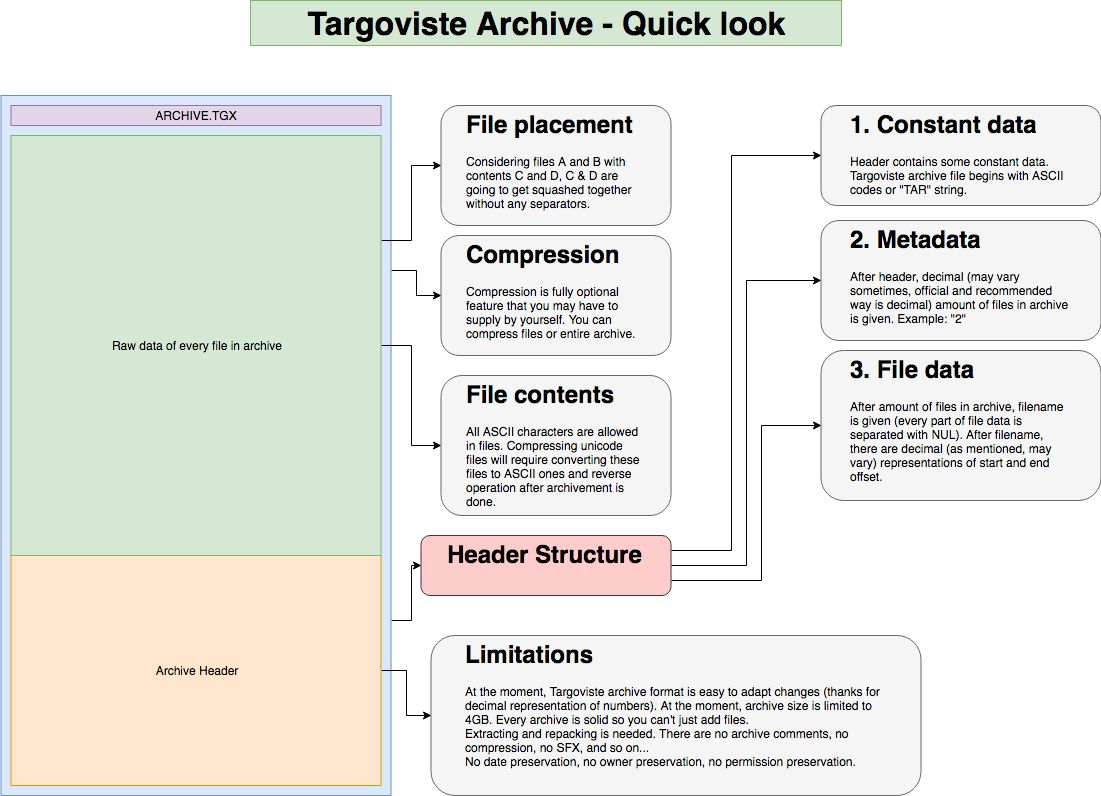
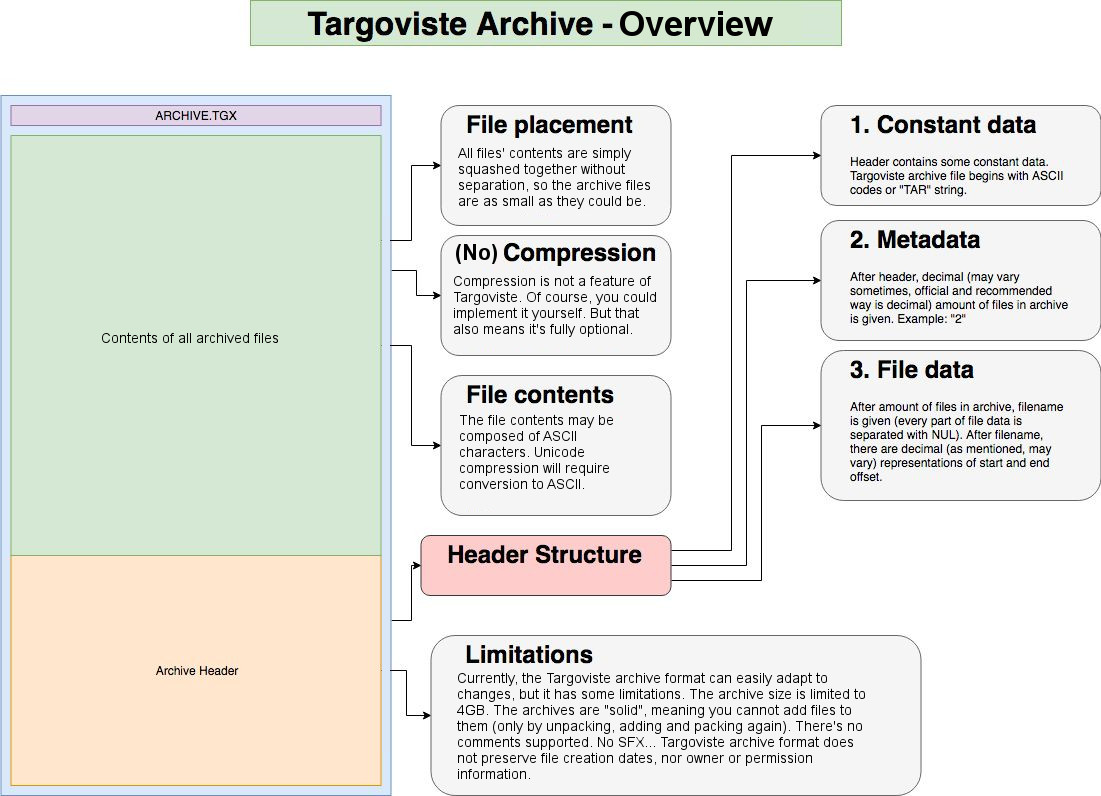
Cleaned up the docs (#4)
* Cleaned up the docs

* Improved some descriptions on the chart

* "Relative" image path in the README

diff --git a/targoviste.c b/targoviste.c
@@ -23,7 +23,7 @@ OUT OF OR IN CONNECTION WITH THE SOFTWARE OR THE USE OR OTHER DEALINGS IN THE
 SOFTWARE.
 */
 
-/* Utility for converting number macros to string ones. */
+/* Utility for converting number macros to string macros. */
 #define xstr(s) str(s)
 #define str(s) #s
 
@@ -32,20 +32,21 @@ SOFTWARE.
 #include <stdio.h>
 #include <string.h>
 
-/* *** Internal functions block starts *** */
+/* *** Internal functions *** */
 
 /*
  * Function:  readString
  * --------------------
- * This function is reading string from specified stream with specified size and
- * delimiter. This function is returning pointer to string allocated on heap. Please
- * remember to free pointer. Warning: does not consume the delimiter.
+ * Reads a string from the given file stream with the specified size
+ * and delimiter. Returns a pointer to a string allocated on the heap.
+ * Remember to free the pointer afterwards. The returned string contains
+ * the delimiter.
  *
- *  f: File handle
- *  maxSize: Max string size (to get rid of BO attacks)
- *  delim: Delimiter
+ *  f: the file handle
+ *  maxSize: max string size (to prevent BO attacks)
+ *  delim: the string delimiter
  *
- *  returns: string that was read from stream.
+ *  returns: the resulting string read from the stream
  */
 static char * readString(FILE * f, int maxSize, char delim) {
     char * s, c;
@@ -69,16 +70,14 @@ static char * readString(FILE * f, int maxSize, char delim) {
 }
 
 /*
- * Function:  reado
+ * Function:  readi
  * --------------------
- * This function is reading number from specified stream. Does
- * consume null terminator. This is wrapper over readString.
- * Function is returning string pointer allocated on heap like
- * readString, so please free it after it's no longer used.
+ * Reads an integer from the given file stream.
+ * This function uses readString().
  *
- *  f: File handle
+ *  f: the file handle
  *
- *  returns: number that was read from stream.
+ *  returns: the integer read from the stream
  */
 static int readi(FILE * f) {
     char * s;
@@ -91,22 +90,12 @@ static int readi(FILE * f) {
 }
 
 
-/* *** Internal functions block ends *** */
+/* *** End: Internal functions *** */
 
-/* *** External functions block starts *** */
 
-/*
- * Function:  writeArchive
- * --------------------
- * This function is writing targoviste_archive structure to
- * specified filename. 
- * 
- *  archive: instance of targoviste_archive structure that
- *           needs to be written.
- *  file: file to write to.
- *
- *  returns: 1 on failure, 0 on success.
- */
+
+/* *** External functions *** */
+
 int writeArchive(targoviste_archive archive, char * file) {
     FILE * f;
     int i = 0, totalSize = 0;
@@ -126,23 +115,6 @@ int writeArchive(targoviste_archive archive, char * file) {
     return 0;
 }
 
-/*
- * Function:  readArchive
- * --------------------
- * This function is reading whole targoviste_archive structure from
- * specified filename. 
- *
- *  file: file to write to.
- *  error: pointer to integer variable, which will be changed in
- *         case of error to either:
- *            0 (everything fine)
- *            1 (file could not be opened)
- *            2 (out of memory)
- *            3 (invalid header)
- *            4 (out of memory)
- *
- *  returns: archive read.
- */
 targoviste_archive readArchive(char * file, int *error) {
     FILE * f;
     targoviste_archive archive;
@@ -202,23 +174,6 @@ targoviste_archive readArchive(char * file, int *error) {
     return archive;
 }
 
-/*
- * Function:  freeArchive
- * --------------------
- * This function is reading whole targoviste_archive structure from
- * specified filename. 
- *
- *  file: file to write to.
- *  error: pointer to integer variable, which will be changed in
- *         case of error to either:
- *            0 (everything fine)
- *            1 (file could not be opened)
- *            2 (out of memory)
- *            3 (invalid header)
- *            4 (out of memory)
- *
- *  returns: archive read.
- */
 void freeArchive(targoviste_archive archive) {
     int i;
     for(i = 0; i < archive.amount; i++)
@@ -226,22 +181,7 @@ void freeArchive(targoviste_archive archive) {
     free(archive.files);
 }
 
-/*
- * Function:  loadFileFromArchive
- * --------------------
- * This function is loading single file from specified archive file.
- *
- *  file: target file
- *  filename: name of archive
- *
- *  returns: integer variable, which will be changed in
- *           case of error to either:
- *             0 (everything fine)
- *             1 (file could not be opened)
- *             2 (out of memory)
- *             3 (invalid header)
- *             4 (out of memory)
- */
+
 int loadFileFromArchive(targoviste_file * file, char * filename) {
     FILE * f;
     int i, size, startOffset;
@@ -290,23 +230,7 @@ int loadFileFromArchive(targoviste_file * file, char * filename) {
     return 0;
 }
 
-/*
- * Function:  listFilesArchive
- * --------------------
- * This function is listing all files in archive,
- *
- *  path: path to archive
- *  error: pointer to integer variable, which will be changed in
- *         case of error to either:
- *            0 (everything fine)
- *            1 (file could not be opened)
- *            2 (out of memory)
- *            3 (invalid header)
- *
- *  returns: array of files. Warning: files have buffer set as NULL!
- *           on error, NULL is returned!
- */
-targoviste_file * listFilesArchive(char * path, int * error) {
+targoviste_file * listFilesInArchive(char * path, int * error) {
     FILE * f;
     int amount, size, i;
     char * filenameBuffer;
@@ -342,3 +266,5 @@ targoviste_file * listFilesArchive(char * path, int * error) {
     fclose(f);
     return files;
 }
+
+/** *** End: External functions *** */

diff --git a/targoviste.h b/targoviste.h
@@ -43,14 +43,13 @@ typedef struct {
 /*
  * Function:  writeArchive
  * --------------------
- * This function is writing targoviste_archive structure to
- * specified filename. 
+ * Writes a targoviste_archive structure to the file
+ * with the given filename.
  * 
- *  archive: instance of targoviste_archive structure that
- *           needs to be written.
- *  file: file to write to.
+ *  archive: the instance of targoviste_archive structure to be written
+ *  file: the file to write to
  *
- *  returns: 1 on failure, 0 on success.
+ *  returns: 1 on failure, 0 on success
  */
 int writeArchive(targoviste_archive archive, char * file);
 
@@ -58,19 +57,19 @@ int writeArchive(targoviste_archive archive, char * file);
 /*
  * Function:  readArchive
  * --------------------
- * This function is reading whole targoviste_archive structure from
- * specified filename. 
+ * Reads a targoviste_archive structure from the file
+ * with the given filename.
  *
- *  file: file to write to.
- *  error: pointer to integer variable, which will be changed in
- *         case of error to either:
+ *  file: the file to write to
+ *  error: a pointer to an integer variable,
+ *      whose value indicates reading errors and can be:
  *            0 (everything fine)
  *            1 (file could not be opened)
  *            2 (out of memory)
  *            3 (invalid header)
  *            4 (out of memory)
  *
- *  returns: archive read.
+ *  returns: the archive read from the file
  */
 targoviste_archive readArchive(char * file, int *error);
 
@@ -78,9 +77,10 @@ targoviste_archive readArchive(char * file, int *error);
 /*
  * Function:  loadFileFromArchive
  * --------------------
- * This function is loading single file from specified archive file.
+ * Loads a single file with the specified filename
+ * from the given targoviste_file.
  *
- *  file: target file
+ *  file: a file pointer that the output file will be assigned to
  *  filename: name of archive
  *
  *  returns: integer variable, which will be changed in
@@ -93,42 +93,31 @@ targoviste_archive readArchive(char * file, int *error);
  */
 int loadFileFromArchive(targoviste_file * file, char * filename);
 
-
 /*
  * Function:  freeArchive
  * --------------------
- * This function is reading whole targoviste_archive structure from
- * specified filename. 
- *
- *  file: file to write to.
- *  error: pointer to integer variable, which will be changed in
- *         case of error to either:
- *            0 (everything fine)
- *            1 (file could not be opened)
- *            2 (out of memory)
- *            3 (invalid header)
- *            4 (out of memory)
+ * Missing valid documentation.
  *
  *  returns: archive read.
  */
 void freeArchive(targoviste_archive archive);
 
 /*
- * Function:  listFilesArchive
+ * Function:  listFilesInArchive
  * --------------------
- * This function is listing all files in archive,
+ * Returns an array of all files in the archive with the given path.
  *
  *  path: path to archive
  *  error: pointer to integer variable, which will be changed in
- *         case of error to either:
+ *         case of an error to:
  *            0 (everything fine)
  *            1 (file could not be opened)
  *            2 (out of memory)
  *            3 (invalid header)
  *
- *  returns: array of files. Warning: files have buffer set as NULL!
- *           on error, NULL is returned!
+ *  returns: array of files. The retured files have a buffer value of NULL.
+ *              In case of an error, NULL is returned.
  */
-targoviste_file * listFilesArchive(char * path, int * error);
+targoviste_file * listFilesInArchive(char * path, int * error);
 
 #endif

diff --git a/README.md b/README.md
@@ -1,11 +1,11 @@
 # Targoviste
 
-Targoviste is simple library which aim is archiving multiple files into one archive file.
-Targoviste is implementing it's unique archive format. It's really simple. Please check examples folder for examples of use.
-![Diagram](https://raw.githubusercontent.com/KrzysztofSzewczyk/Targoviste/master/archiveformat.jpg)
+Targoviste is simple utility that can pack and unpack files from and to simple archives.
+Targoviste has its own archive format that's really simple. You can browse the `examples` folder to see how it can be used.
+![Diagram](archiveformat.jpg)
 
 # Building
-To build Targoviste, please run `./build.sh`. Under Windows, you have install GCC and Bash.
+To build Targoviste, you just need to run `./build.sh`. It requires the `gcc` compiler installed.
 
 # License
 Targoviste is redistributed under MIT license.
